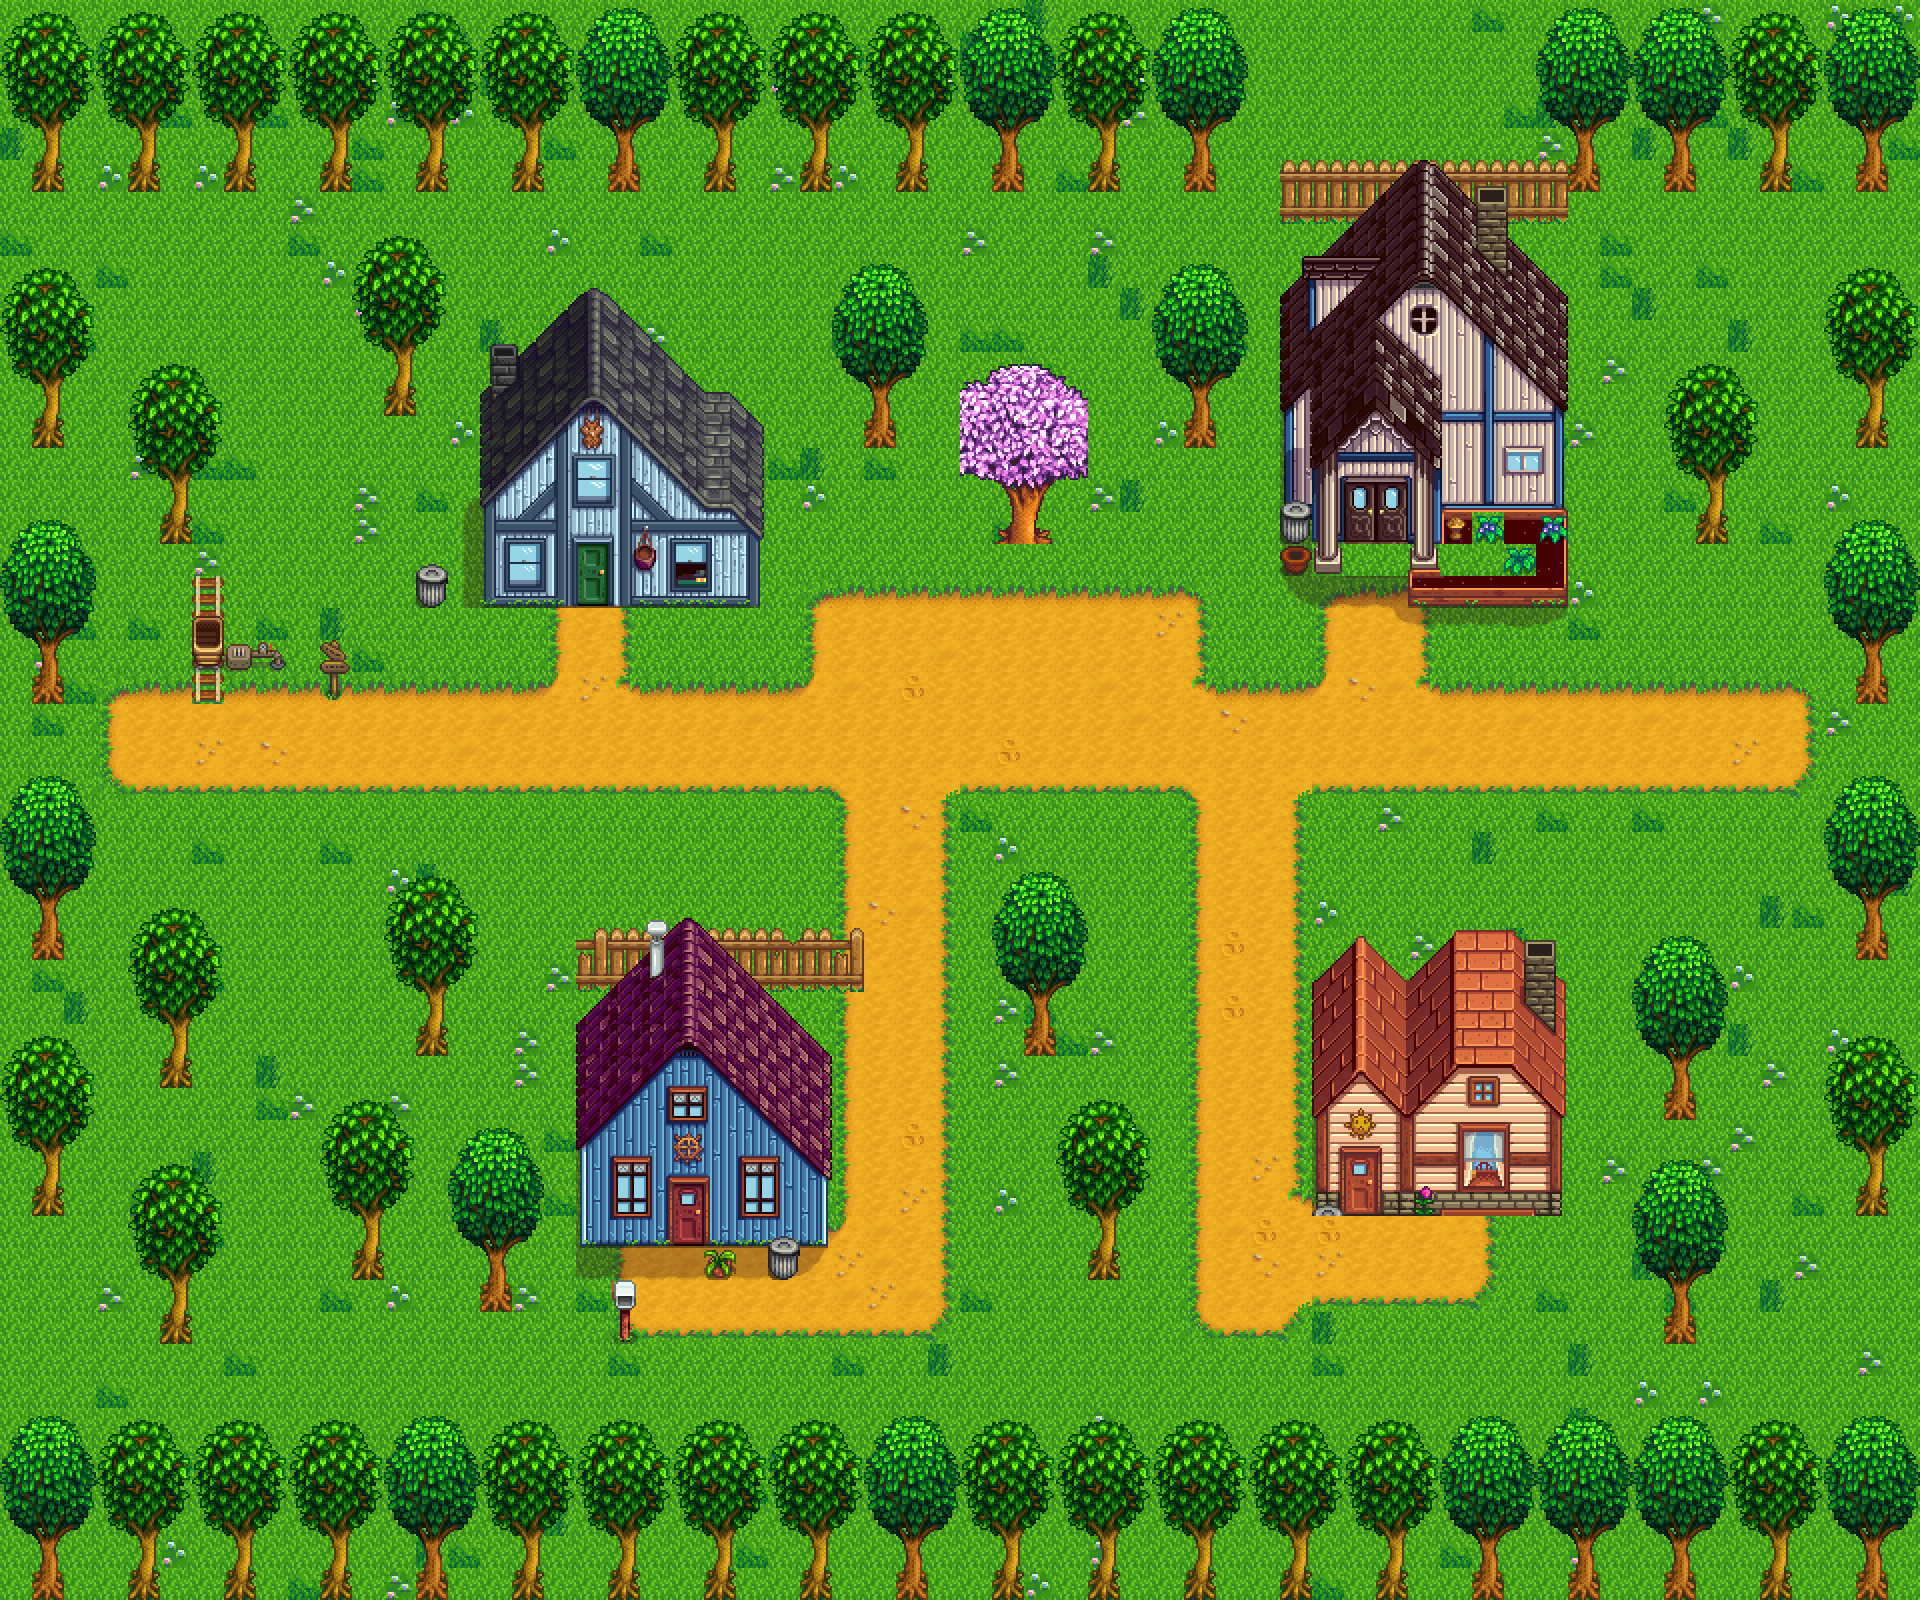
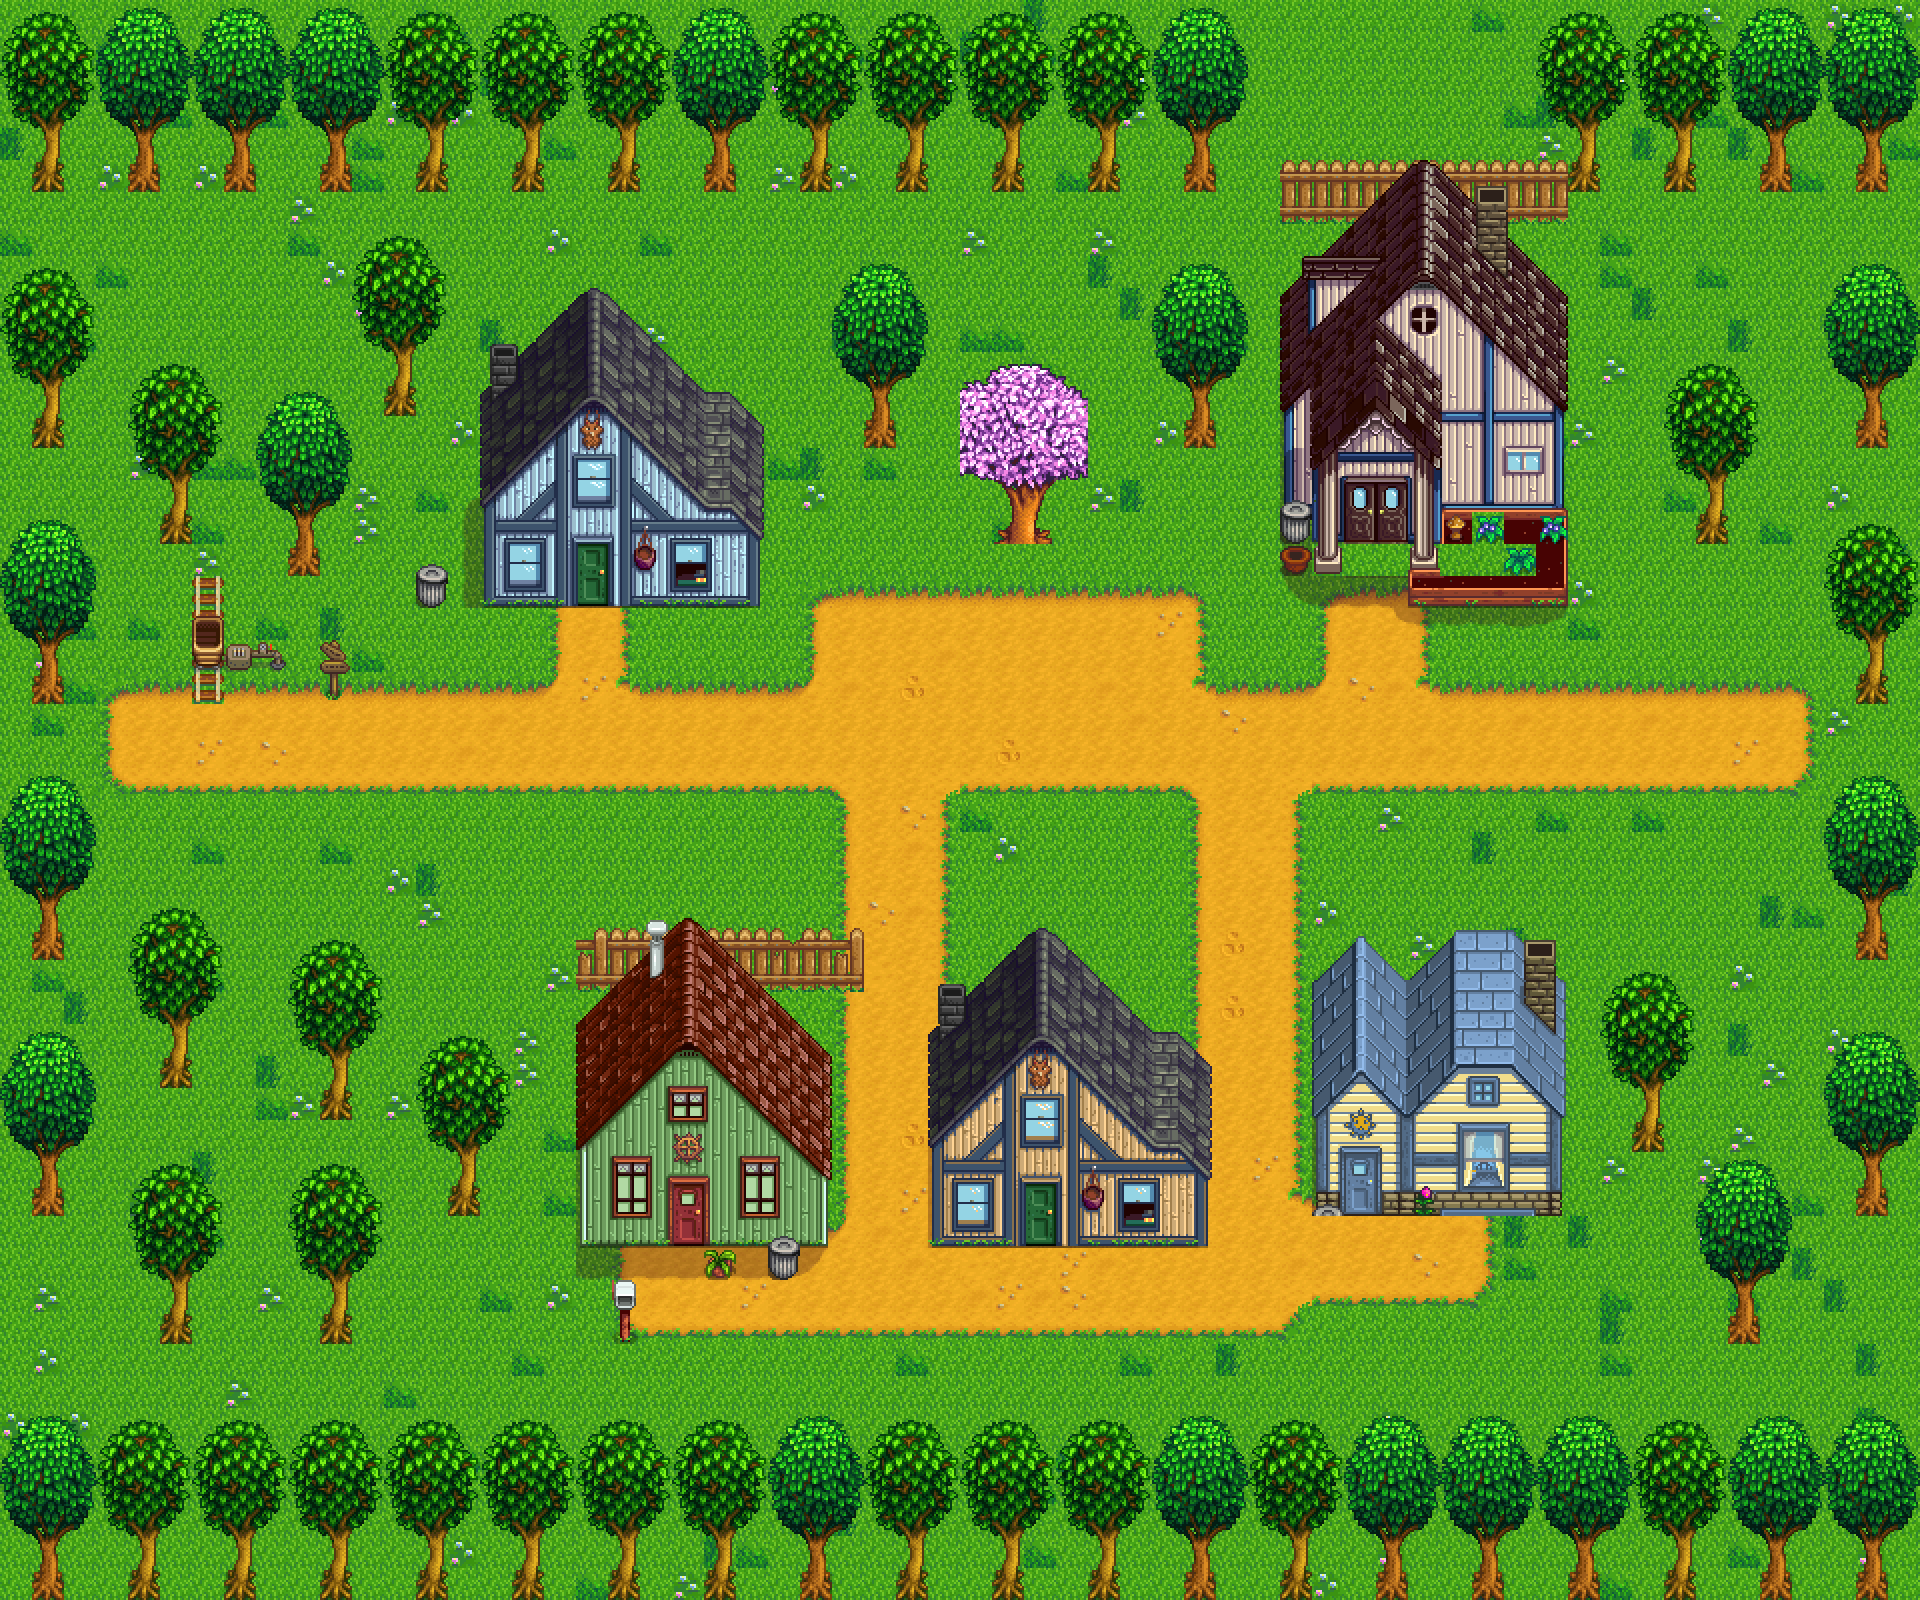
Add recoloured house variants to Cinarkoy
The generator can now repaint a vanilla house (hue remapping per wall
and roof) into a mod-owned seasonal tilesheet, giving a green, a cream
and a slate-roofed house alongside two unmodified ones. The derived
tilesheets are generated locally and kept out of the repository.

Claude-Session: https://claude.ai/code/session_01A8EURQdfZ6S9Wh7SMZnUsQ

diff --git a/stardew-cinarkoy/tools/harita_uret.py b/stardew-cinarkoy/tools/harita_uret.py
@@ -12,11 +12,13 @@ karo setlerine yalnızca adlarıyla başvurur.
 Çıktılar:
     [CP] Cinarkoy/assets/Cinarkoy.tmx   köy haritası
     [CP] Cinarkoy/assets/Tabela.tmx     otobüs durağına bindirilen tabela yaması
+    [CP] Cinarkoy/assets/<mevsim>_cinarkoy_evler.png   yeniden boyanmış ev karoları
     onizleme.png                         haritanın önizlemesi
 
 Haritayı Tiled ile elle düzenlemeye başladıktan sonra bu betiği tekrar
 çalıştırma: Cinarkoy.tmx dosyasının üzerine yazar.
 """
+import colorsys
 import copy
 import random
 import sys
@@ -142,8 +144,70 @@ def ev_filtresi(ad, gid):
     return KASABA0 <= gid < KASABA1 or (ad.startswith("Back") and GOLGE0 <= gid < GOLGE1)
 
 
-def ev(kx0, ky0, kx1, ky1, hx, hy):
-    damga(town, kx0, ky0, kx1, ky1, hx, hy, ev_filtresi)
+def ev(kx0, ky0, kx1, ky1, hx, hy, boya=None):
+    """Town'daki evi köye kopyalar. boya verilirse evin karoları yeniden boyanıp
+    modun kendi karo setine (cinarkoy_evler) eklenir ve ev o karolarla kurulur."""
+    if boya is None:
+        return damga(town, kx0, ky0, kx1, ky1, hx, hy, ev_filtresi)
+    for ad in KATMANLAR:
+        for y in range(ky0, ky1 + 1):
+            for x in range(kx0, kx1 + 1):
+                gid = town.katman[ad][y][x]
+                if not gid or not ev_filtresi(ad, gid):
+                    continue
+                if KASABA0 <= gid < KASABA1:
+                    anahtar = (boya, gid - KASABA0)
+                    if anahtar not in OZEL:
+                        OZEL[anahtar] = len(OZEL)
+                    gid = OZEL0 + OZEL[anahtar]
+                harita[ad][hy + y - ky0][hx + x - kx0] = gid
+
+
+# ------------------------------------------------------- yeniden boyama ---
+OZEL = {}                 # (boya işlevi, kasaba karo no) -> özel karo setindeki sıra
+OZEL0 = 6000              # özel karo setinin ilk numarası
+OZEL_SUTUN = 16
+MEVSIMLER = ["spring", "summer", "fall", "winter"]
+
+
+def _boya(kural):
+    """kural(h, s, v) -> (h, s, v) ya da None. h derece (0-360), s ve v 0-1."""
+    def uygula(karo):
+        px = karo.load()
+        for y in range(16):
+            for x in range(16):
+                r, g, b, a = px[x, y]
+                if a == 0:
+                    continue
+                h, sat, v = colorsys.rgb_to_hsv(r / 255, g / 255, b / 255)
+                yeni = kural(h * 360, sat, v)
+                if yeni:
+                    nr, ng, nb = colorsys.hsv_to_rgb(yeni[0] / 360, min(1, yeni[1]), min(1, yeni[2]))
+                    px[x, y] = (round(nr * 255), round(ng * 255), round(nb * 255), a)
+        return karo
+    return uygula
+
+
+def _yesil(h, s, v):          # mavi duvar -> yeşil, mor çatı -> kiremit
+    if 185 <= h <= 255 and s > 0.15:
+        return 105, s * 0.7, v * 0.95
+    if 255 < h <= 345 and s > 0.12:
+        return 14, s * 1.15, v * 1.05
+
+
+def _arduvaz(h, s, v):        # turuncu çatı -> mavi-gri arduvaz, duvar -> açık sarı
+    if (h <= 32 or h >= 350) and s > 0.50:
+        return 212, s * 0.55, v * 0.92
+    if 15 <= h <= 45 and s <= 0.50 and v > 0.35:
+        return 48, s * 1.1, v
+
+
+def _krem(h, s, v):           # soluk mavi duvar -> krem
+    if 185 <= h <= 245 and 0.06 < s < 0.34 and v > 0.40:
+        return 36, s * 1.5 + 0.06, v
+
+
+YESIL, ARDUVAZ, KREM = _boya(_yesil), _boya(_arduvaz), _boya(_krem)
 
 
 # --------------------------------------------------------------- ağaçlar ---
@@ -197,11 +261,12 @@ yol(26, 19, 36, 21)
 
 # Kuzey sırası: kapılar güneye, ana yola bakar
 EVLER = [
-    # (Town'daki bölge)        (köydeki sol üst)  kapı önü patikası
-    ((52, 53, 62, 63), (13, 8)),      # gri-mavi ev
-    ((56, 73, 64, 88), (40, 4)),      # büyük konak
-    ((7, 74, 15, 88), (18, 27)),      # mavi ev
-    ((19, 79, 26, 88), (41, 28)),     # turuncu ev
+    # (Town'daki bölge)   (köydeki sol üst)  boya
+    ((52, 53, 62, 63), (13, 8), None),       # gri-mavi ev (oyundaki haliyle)
+    ((56, 73, 64, 88), (40, 4), None),       # büyük konak (oyundaki haliyle)
+    ((7, 74, 15, 88), (18, 27), YESIL),      # yeşil ev, kiremit çatı
+    ((54, 53, 62, 63), (29, 28), KREM),      # krem ev
+    ((19, 79, 26, 88), (41, 28), ARDUVAZ),   # sarı ev, arduvaz çatı
 ]
 yol(18, 19, 18, 21)                   # gri-mavi evin kapısı -> yol
 yol(42, 19, 43, 21)                   # konağın kapısı -> yol
@@ -210,10 +275,11 @@ yol(27, 24, 28, 40)
 yol(20, 39, 28, 40)
 yol(38, 24, 39, 40)
 yol(38, 38, 45, 39)
+yol(29, 39, 37, 40)                   # krem evin önü, iki patikayı birleştirir
 
 zemini_dose()
-for (kx0, ky0, kx1, ky1), (hx, hy) in EVLER:
-    ev(kx0, ky0, kx1, ky1, hx, hy)
+for (kx0, ky0, kx1, ky1), (hx, hy), boya in EVLER:
+    ev(kx0, ky0, kx1, ky1, hx, hy, boya)
 
 # Vagon: Town'daki ray + vagon + kol
 damga(town, 105, 77, 105, 80, VAGON[0], VAGON[1], lambda ad, gid: gid not in CIMEN and ad != "Paths")
@@ -275,9 +341,27 @@ def tmx(g, y, setler, katmanlar, ozellikler=""):
             + "</map>\n")
 
 
+def ozel_set_yaz():
+    """Yeniden boyanmış ev karolarını dört mevsim için ayrı PNG olarak yazar."""
+    satir = (len(OZEL) + OZEL_SUTUN - 1) // OZEL_SUTUN
+    sutun = int(town.setler["spring_town"].get("columns"))
+    for mevsim in MEVSIMLER:
+        kasaba = Image.open(MAPS / f"{mevsim}_town.png").convert("RGBA")
+        sayfa = Image.new("RGBA", (OZEL_SUTUN * 16, satir * 16), (0, 0, 0, 0))
+        for (boya, no), sira in OZEL.items():
+            kx, ky = (no % sutun) * 16, (no // sutun) * 16
+            sayfa.paste(boya(kasaba.crop((kx, ky, kx + 16, ky + 16))),
+                        ((sira % OZEL_SUTUN) * 16, (sira // OZEL_SUTUN) * 16))
+        sayfa.save(ASSETS / f"{mevsim}_cinarkoy_evler.png")
+    return (f'<tileset firstgid="{OZEL0}" name="cinarkoy_evler" tilewidth="16" tileheight="16" '
+            f'tilecount="{satir * OZEL_SUTUN}" columns="{OZEL_SUTUN}">\n'
+            f'  <image source="spring_cinarkoy_evler.png" width="{OZEL_SUTUN * 16}" height="{satir * 16}"/>\n'
+            ' </tileset>')
+
+
 def yaz():
     ASSETS.mkdir(parents=True, exist_ok=True)
-    koy = tmx(G, Y, [set_xml(town, s) for s in SETLER], [(ad, harita[ad]) for ad in KATMANLAR],
+    koy = tmx(G, Y, [set_xml(town, s) for s in SETLER] + [ozel_set_yaz()], [(ad, harita[ad]) for ad in KATMANLAR],
               ' <properties>\n  <property name="Outdoors" type="string" value="T"/>\n </properties>\n')
     (ASSETS / "Cinarkoy.tmx").write_text(koy, encoding="utf-8")
     # Otobüs durağı yaması: 1x2, üstte tabela levhası (Front), altta direk (Buildings)
@@ -292,6 +376,7 @@ def onizleme():
         ts = town.setler[s]
         sayfalar.append((int(ts.get("firstgid")), int(ts.get("columns")),
                          Image.open(MAPS / f"{s}.png").convert("RGBA")))
+    sayfalar.append((OZEL0, OZEL_SUTUN, Image.open(ASSETS / "spring_cinarkoy_evler.png").convert("RGBA")))
     im = Image.new("RGBA", (G * 16, Y * 16), (0, 0, 0, 255))
     for ad in KATMANLAR:
         if ad == "Paths":

diff --git a/stardew-cinarkoy/README.md b/stardew-cinarkoy/README.md
@@ -34,6 +34,7 @@ Dönüş için köydeki tabelaya (otobüs durağına) ya da vagona tıkla.
 | `[CP] Cinarkoy/content.json` | Konum kaydı, vagon durağı, harita yüklemesi |
 | `[CP] Cinarkoy/assets/Cinarkoy.tmx` | Köy haritası ([Tiled](https://www.mapeditor.org) ile düzenlenir) |
 | `[CP] Cinarkoy/assets/Tabela.tmx` | Otobüs durağına bindirilen tabela yaması |
+| `[CP] Cinarkoy/assets/<mevsim>_cinarkoy_evler.png` | Yeniden boyanmış ev karoları (depoda yok, betik üretir) |
 | `[CP] Cinarkoy/i18n/` | Çeviriler (`default.json` İngilizce, `tr.json` Türkçe) |
 | `tools/harita_uret.py` | Haritayı oyunun kendi karolarından üreten betik |
 
@@ -58,7 +59,12 @@ Katman adları oyun için anlamlıdır, değiştirme:
 Vagonun (6, 20), tabelanın (10, 21) ve varış karolarının (6, 22) / (10, 22) yerini
 değiştirirsen `content.json` içindeki koordinatları da güncelle.
 
-Haritayı baştan üretmek için:
+Köydeki üç ev (yeşil, krem, arduvaz çatılı) oyunun evlerinin yeniden boyanmış
+halidir. Bu karolar oyunun görsellerinden türediği için depoya konmaz
+(`.gitignore`); aşağıdaki betik onları senin oyun dosyalarından üretir. **Depoyu
+indirdiysen modu kullanmadan önce betiği bir kez çalıştırman gerekir.**
+
+Haritayı ve ev karolarını üretmek için:
 
 ```
 python3 tools/harita_uret.py "<oyun klasörü>/Content (unpacked)/Maps"
